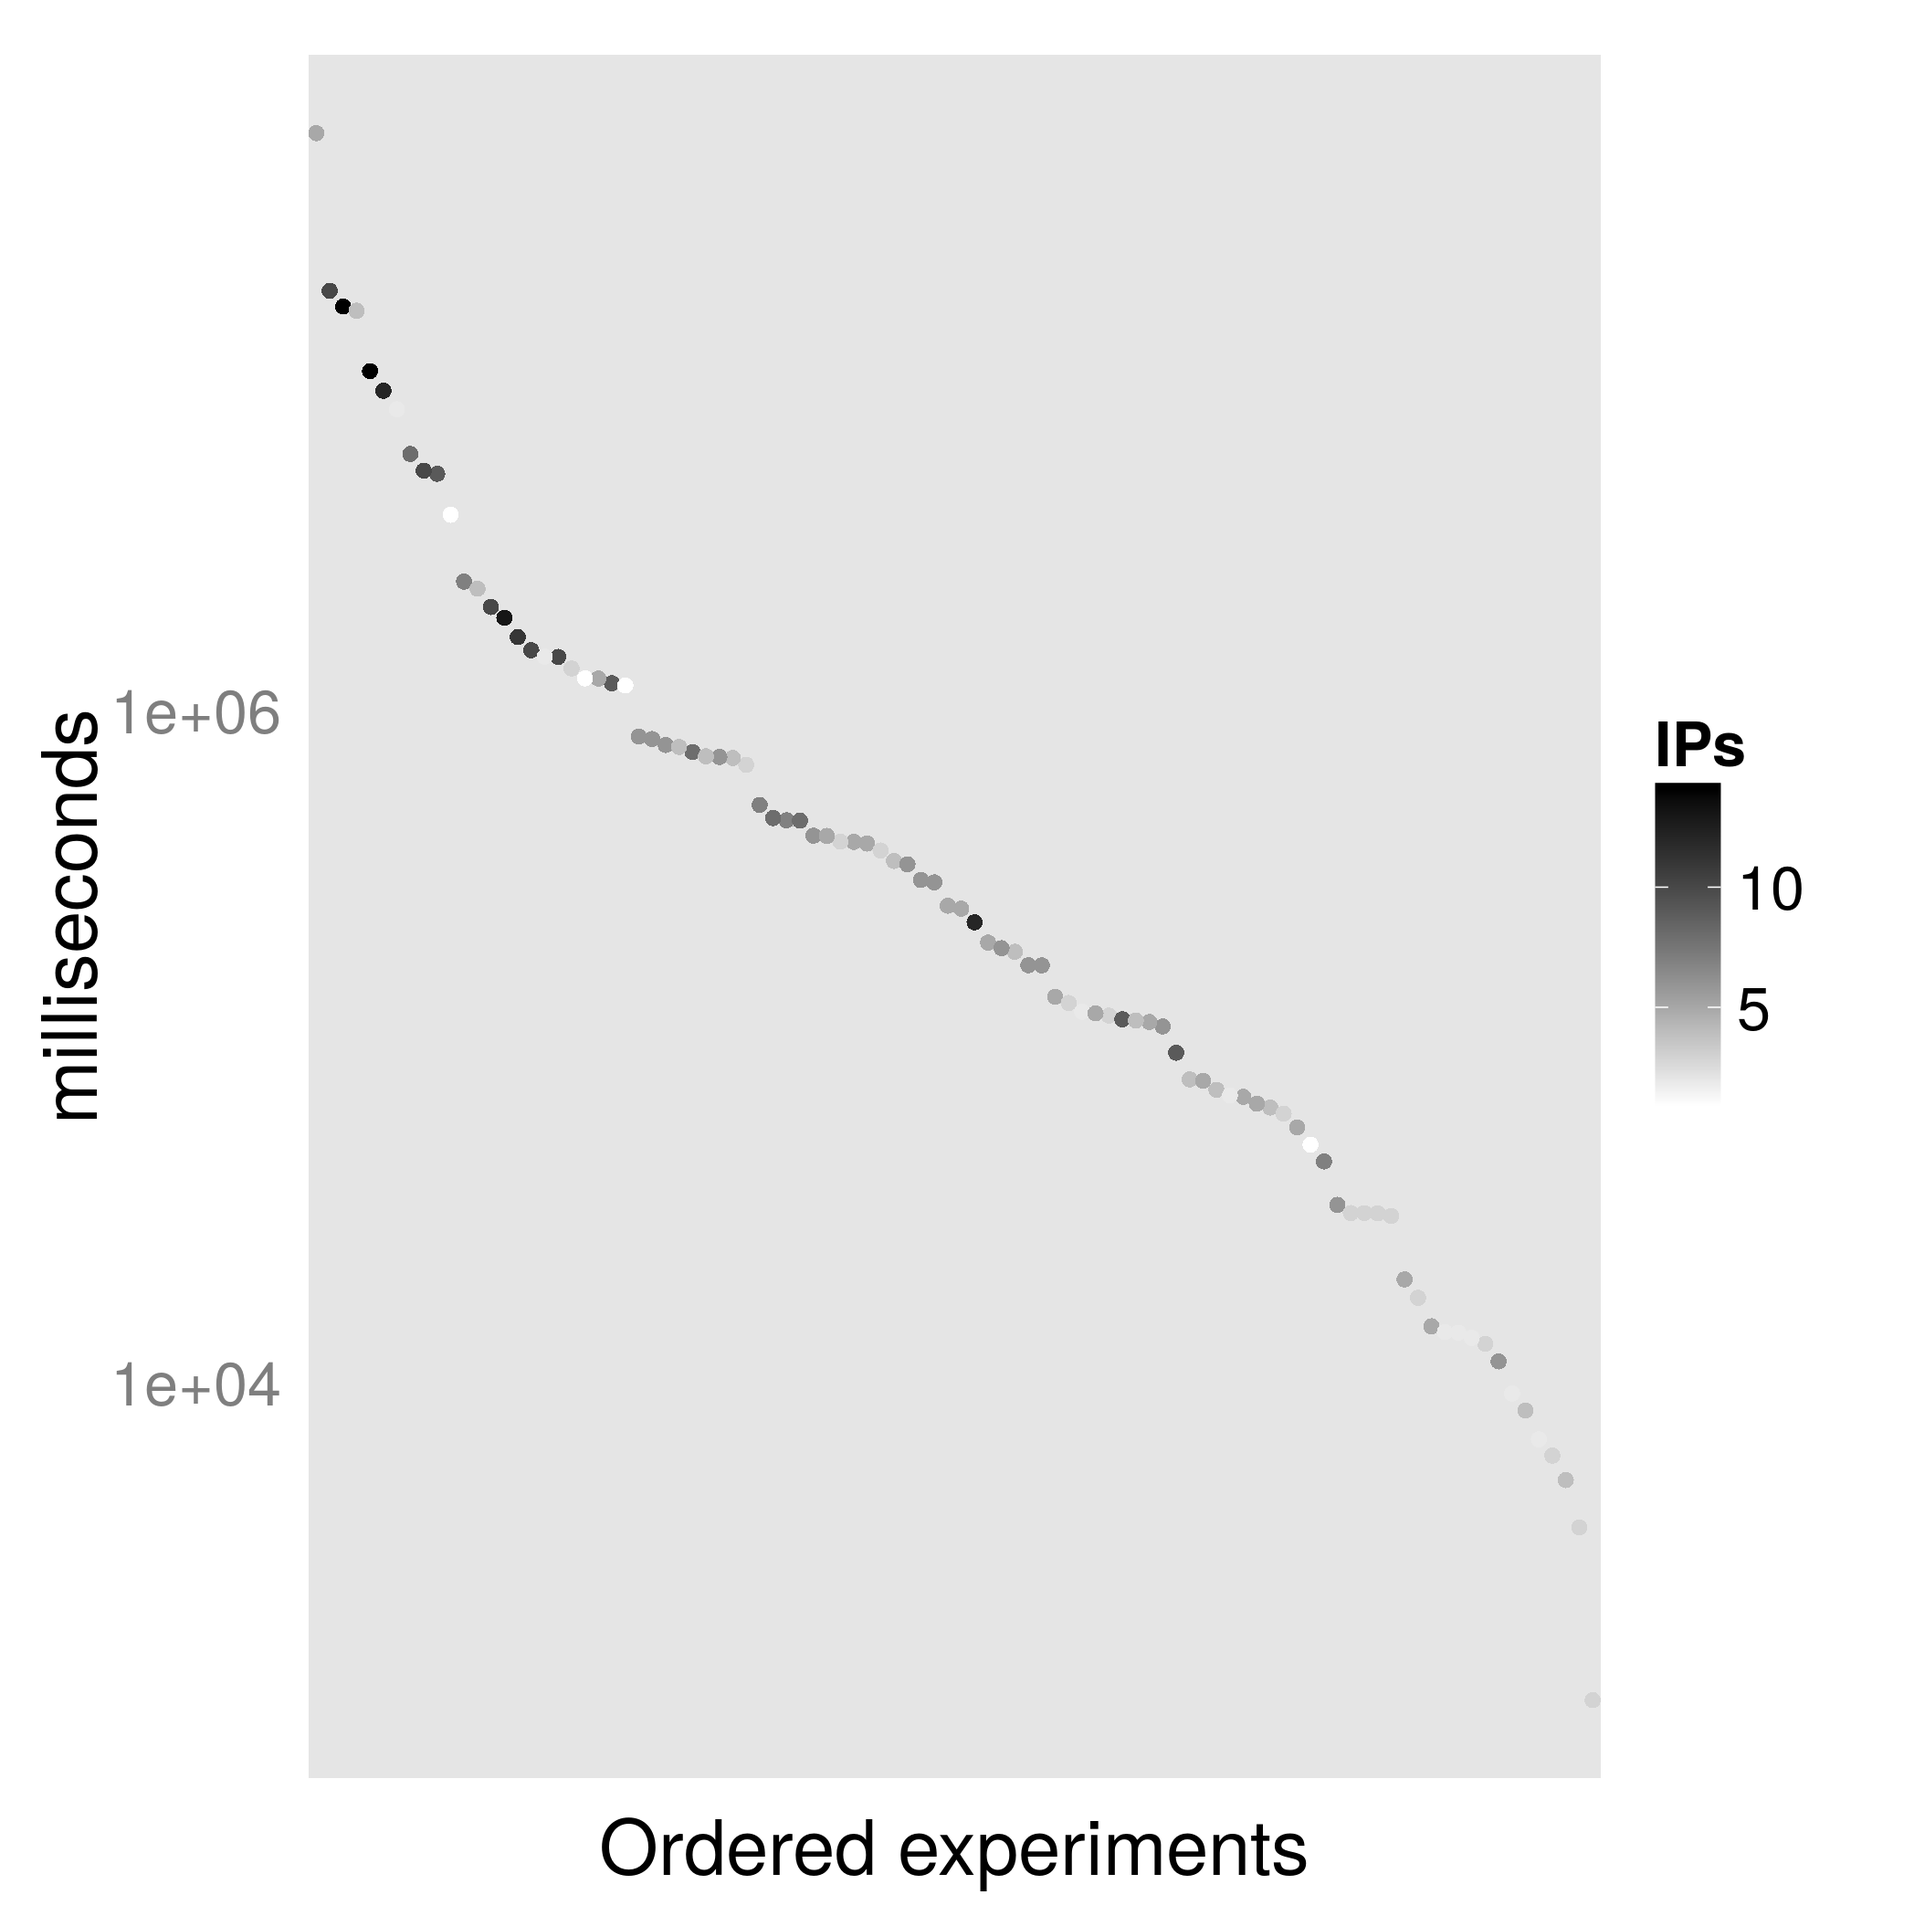
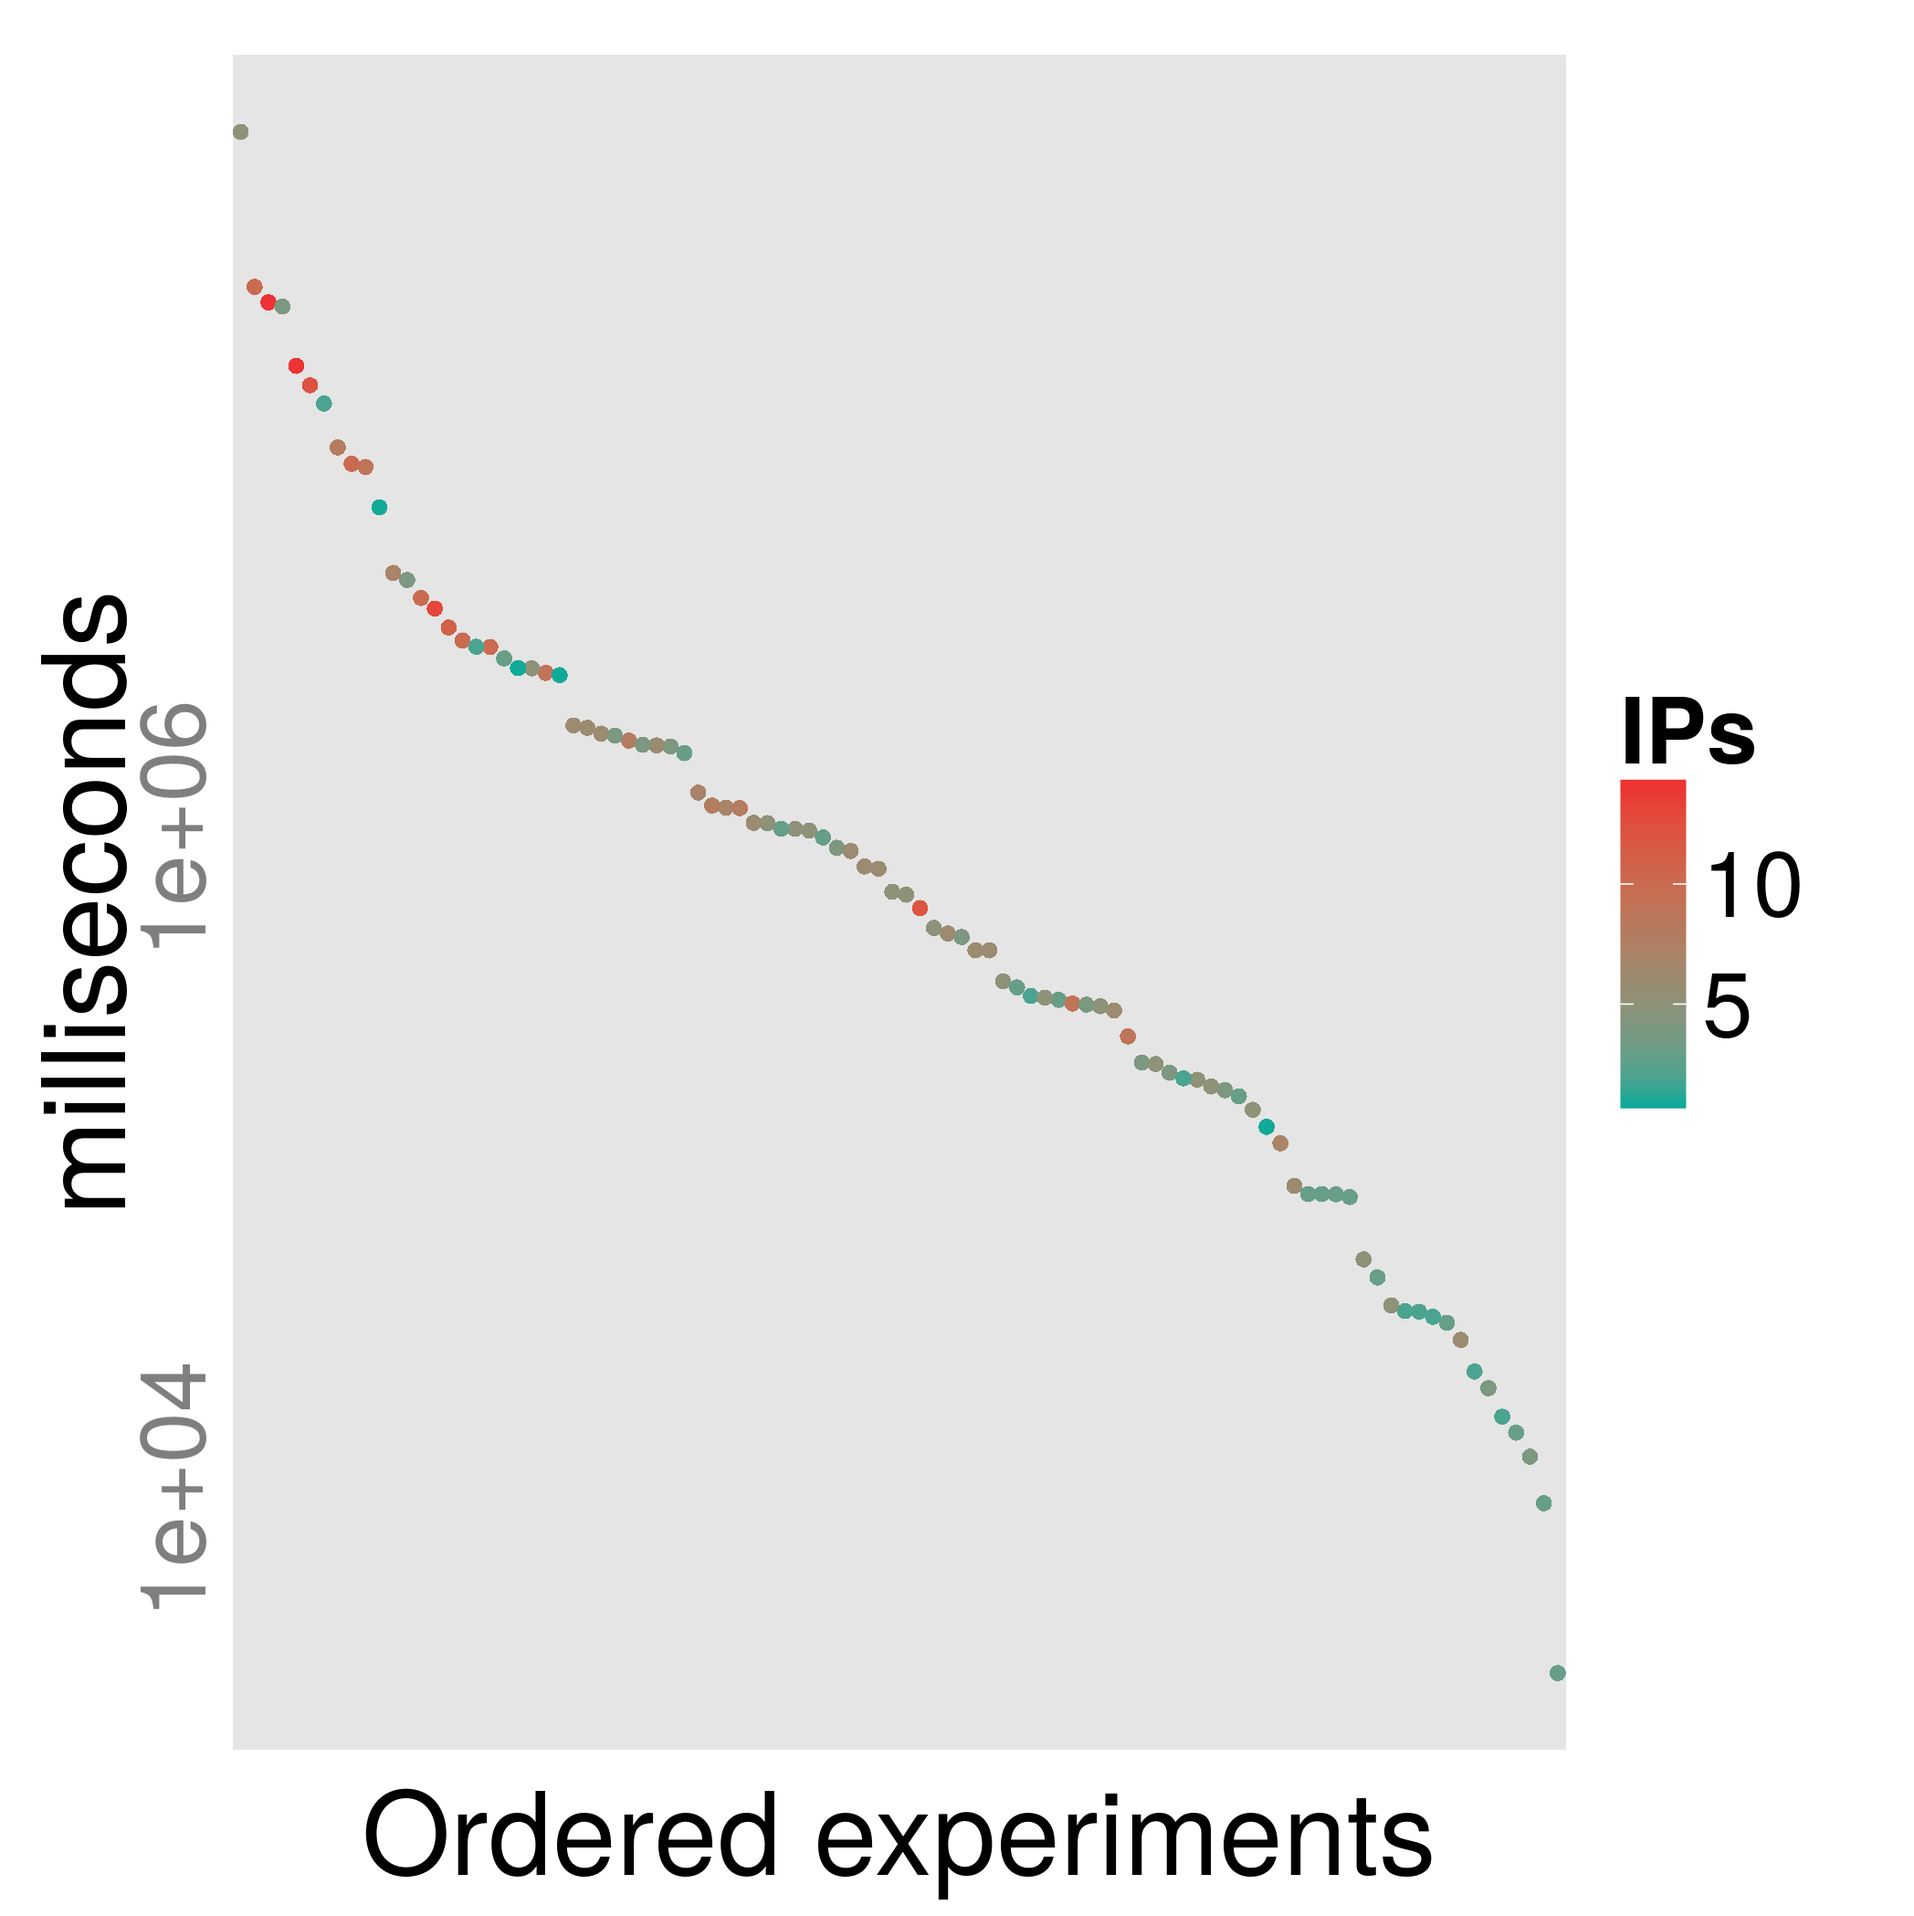
Better fig 2 refs #89

Changed region(s): [[0.0, 0.031, 0.9614, 0.9914], [0.2171, 0.3098, 0.7133, 0.6506], [0.7133, 0.6506, 0.7753, 0.7126]]

diff --git a/special-issue-ci/volunteer-clouds-ieee-ci-si.tex b/special-issue-ci/volunteer-clouds-ieee-ci-si.tex
@@ -573,7 +573,7 @@ From left to right, experiments 4/4, 4/24 and 7/31.}
   participating in the experiment. From left to right, experiments
   4/4, 4/24 and 7/31.} 
 \label{fig:zipf:os}
-% computed via ../data/time-vs-IPs-openshift.png 
+% computed via ../data/time-vs-IPs-openshift.R
 \end{figure}
 %
 We will have to analyze experimental data a bit further to find out why
